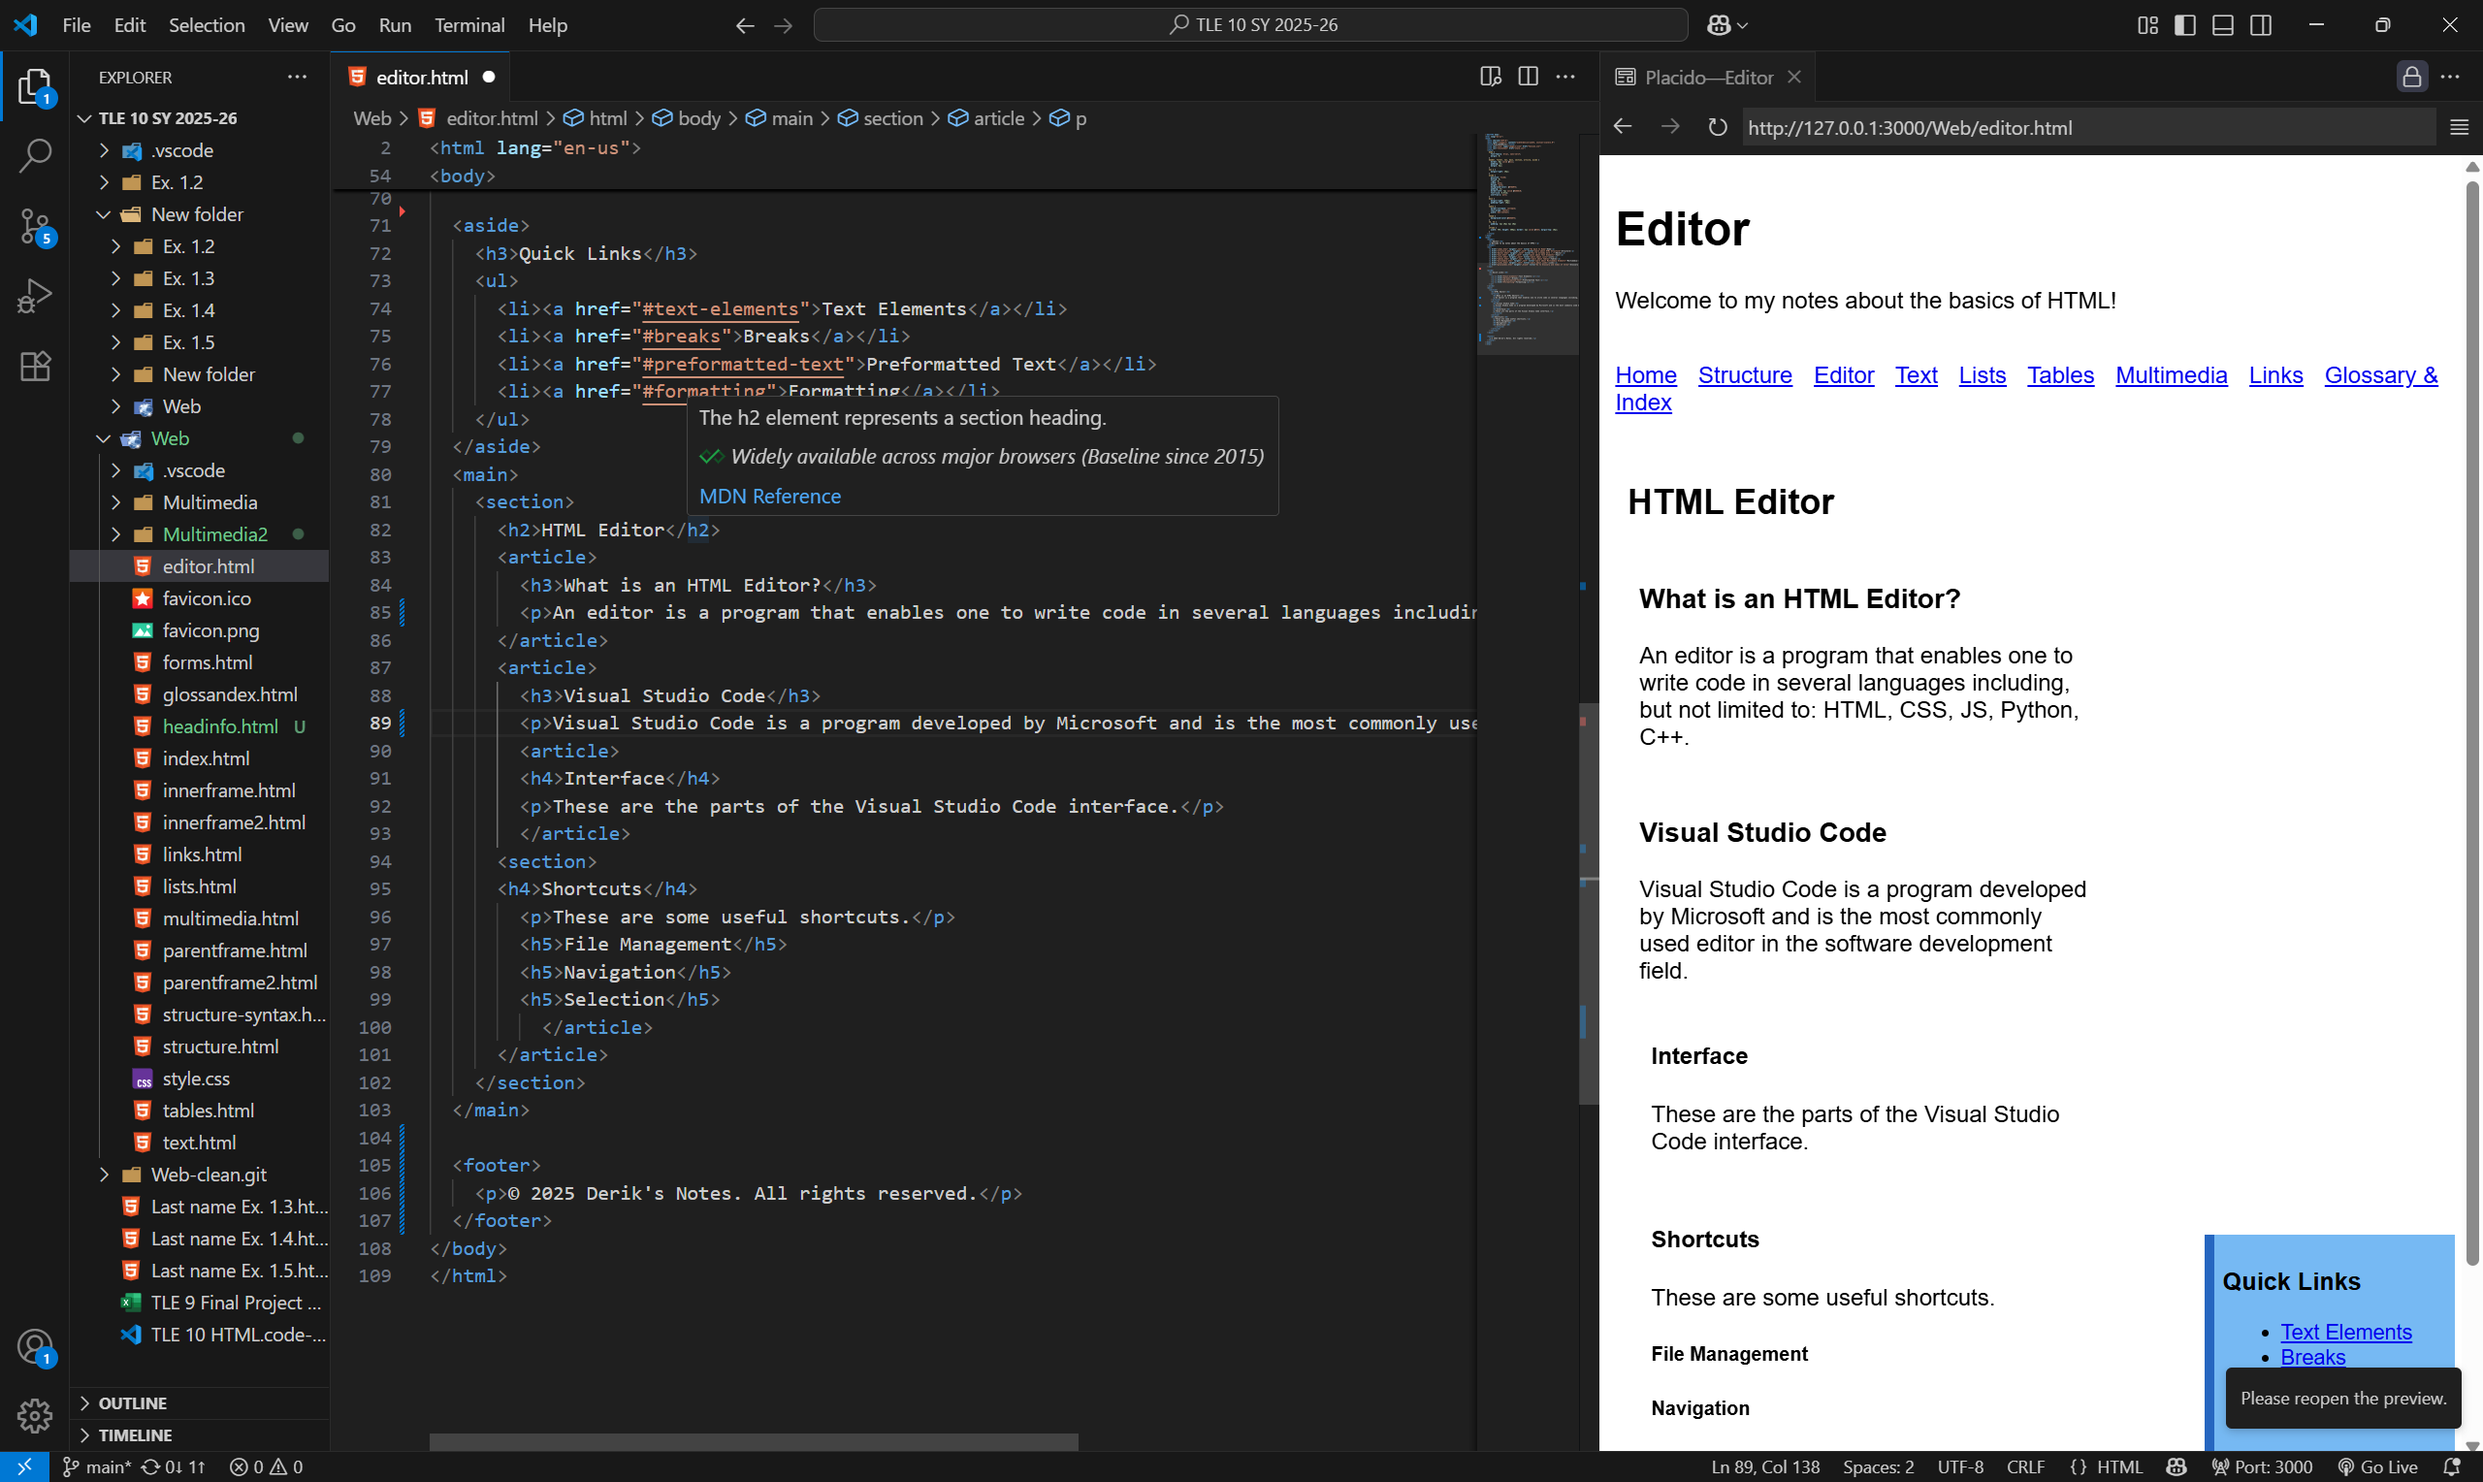
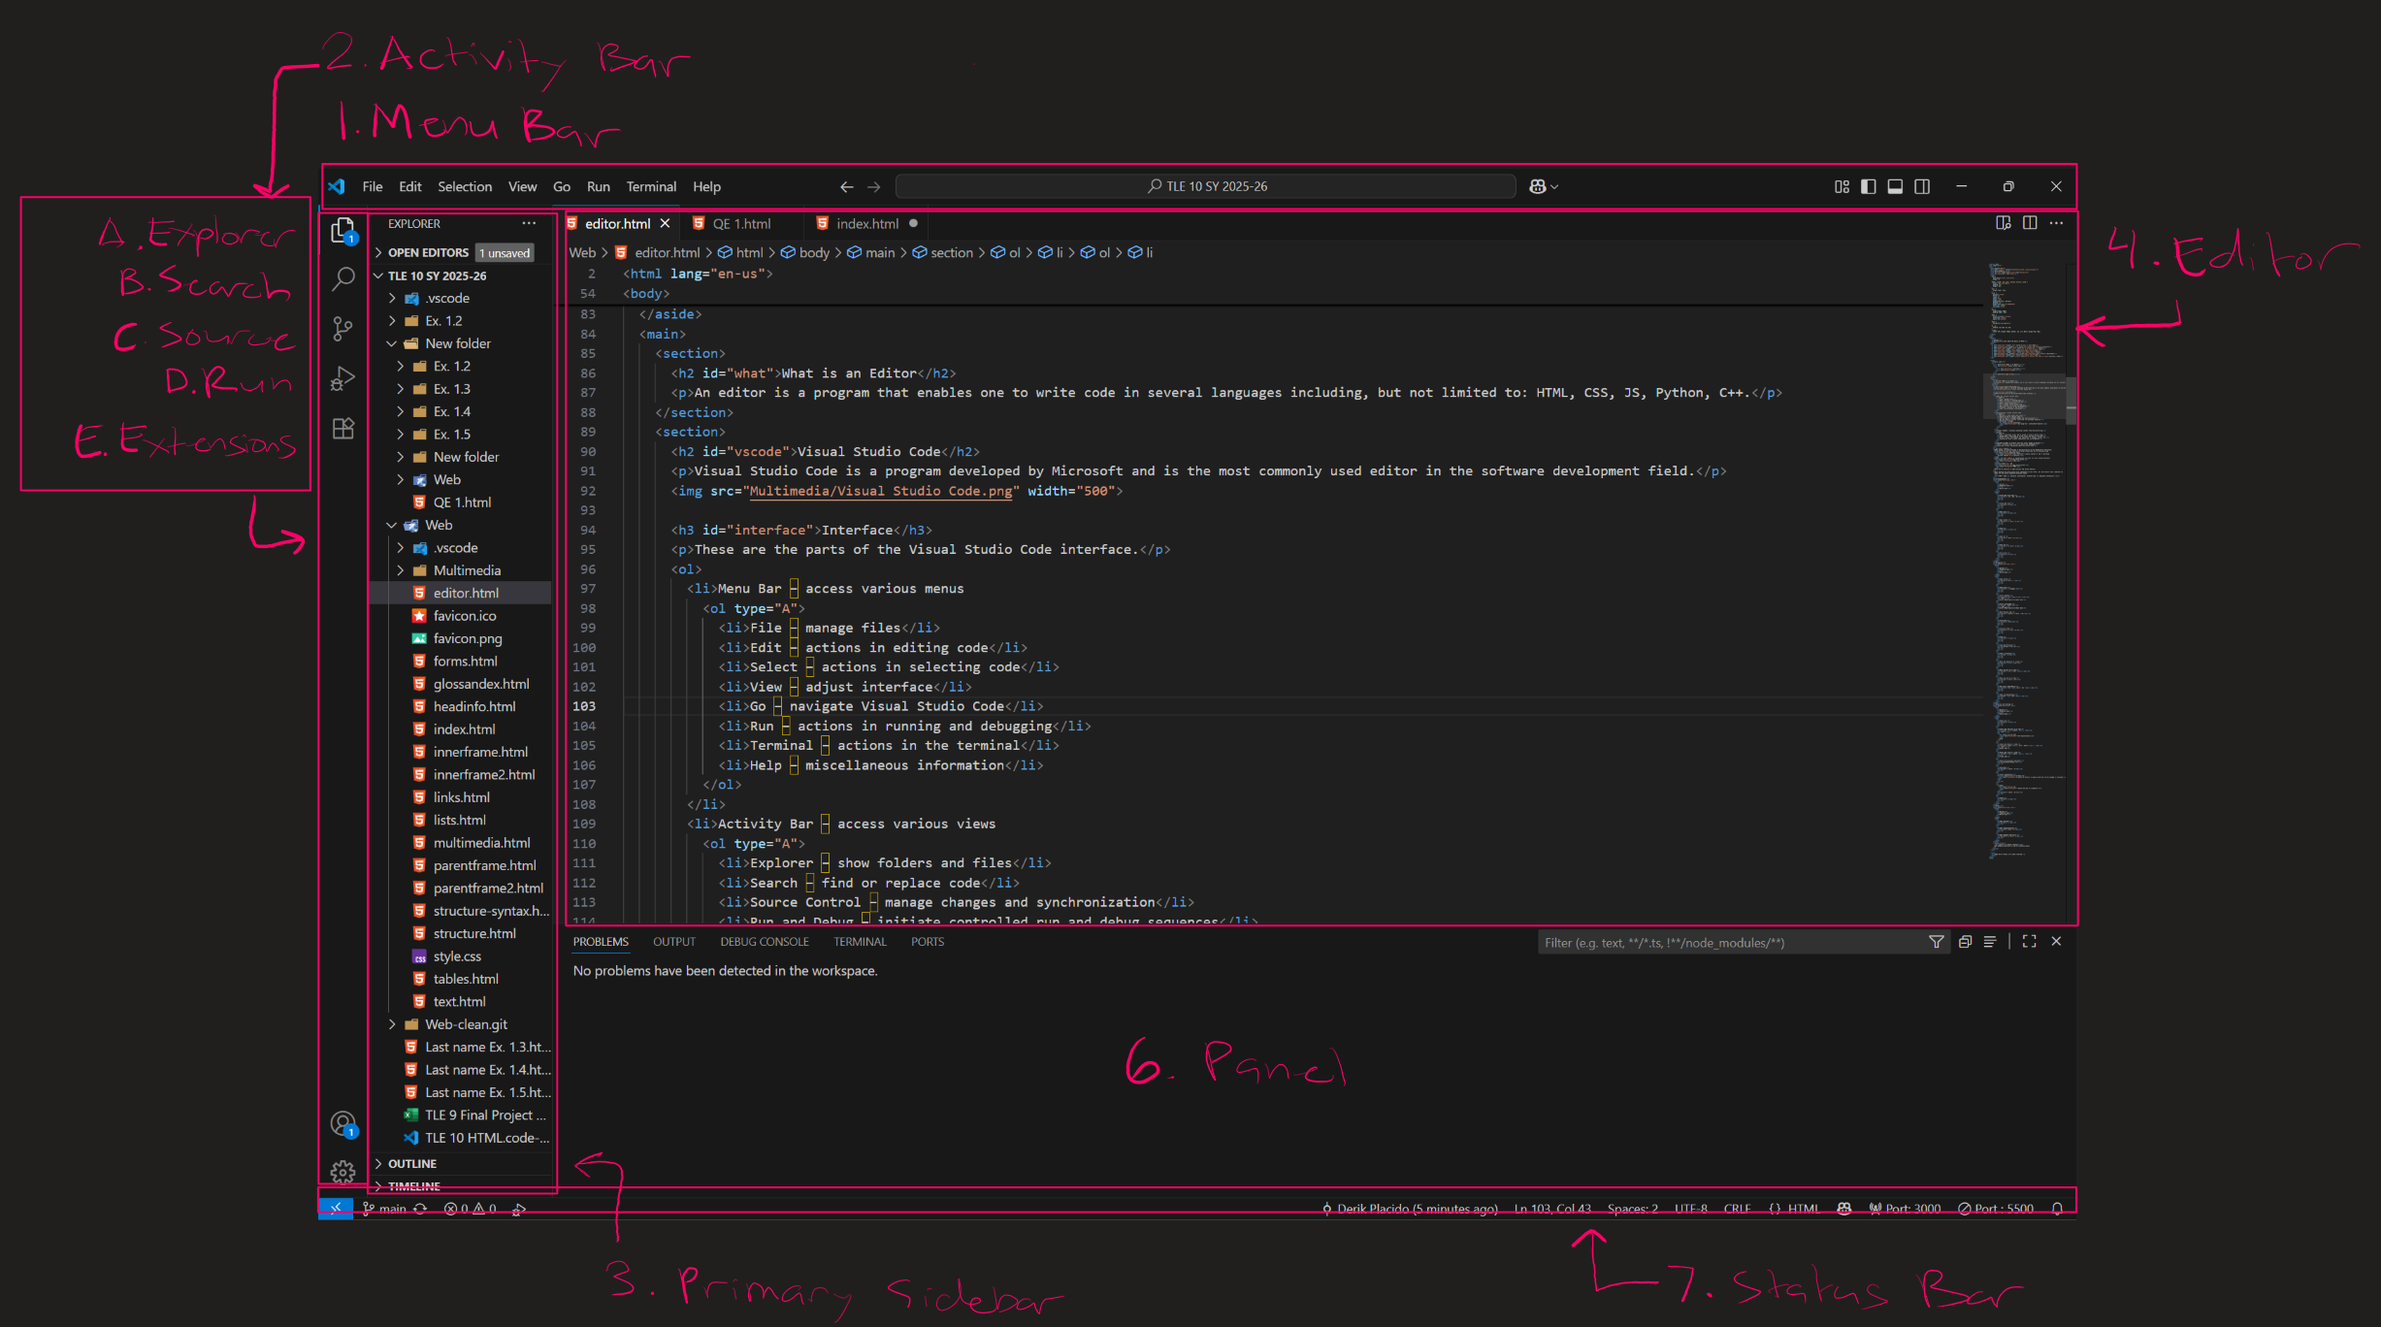
Editor and structure changes

diff --git a/editor.html b/editor.html
@@ -89,7 +89,7 @@
     <section>
       <h2 id="vscode">Visual Studio Code</h2>
       <p>Visual Studio Code is a program developed by Microsoft and is the most commonly used editor in the software development field.</p>
-      <img src="Multimedia/Visual Studio Code.png" width="500">
+      <img src="Multimedia/Visual Studio Code.png" width="800">
       
       <h3 id="interface">Interface</h3>
       <p>These are the parts of the Visual Studio Code interface.</p>
@@ -126,6 +126,7 @@
             <li>Breadcrumbs – shows path up to the cursor position in the code</li>
             <li>Gutter – shows line numbers and indicators of changes, issues, etc.</li>
             <li>Indentation Guide – shows indentations and line aligmnent</li>
+            <li>Minimap – shows document overview and which part is currently visible</li>
           </ol>
         </li>
         <li>Secondary Sidebar – contains space for views; hidden by default</li>

diff --git a/structure.html b/structure.html
@@ -153,7 +153,7 @@
 &lt;/html&gt;</code></pre>
         <b>Preview</b>
         <br>
-        <iframe src="Multimedia/Screenshot 2025-09-01 223326.png" style="width: 35%; height: 348px"></iframe>
+        <iframe src="Multimedia/Screenshot 2025-09-01 223326.png" style="width: 80%; height: 348px"></iframe>
         <h3>Nesting</h3>
         <p>An important aspect of HTML is the <em>nesting</em>.</p>
       </section>  
